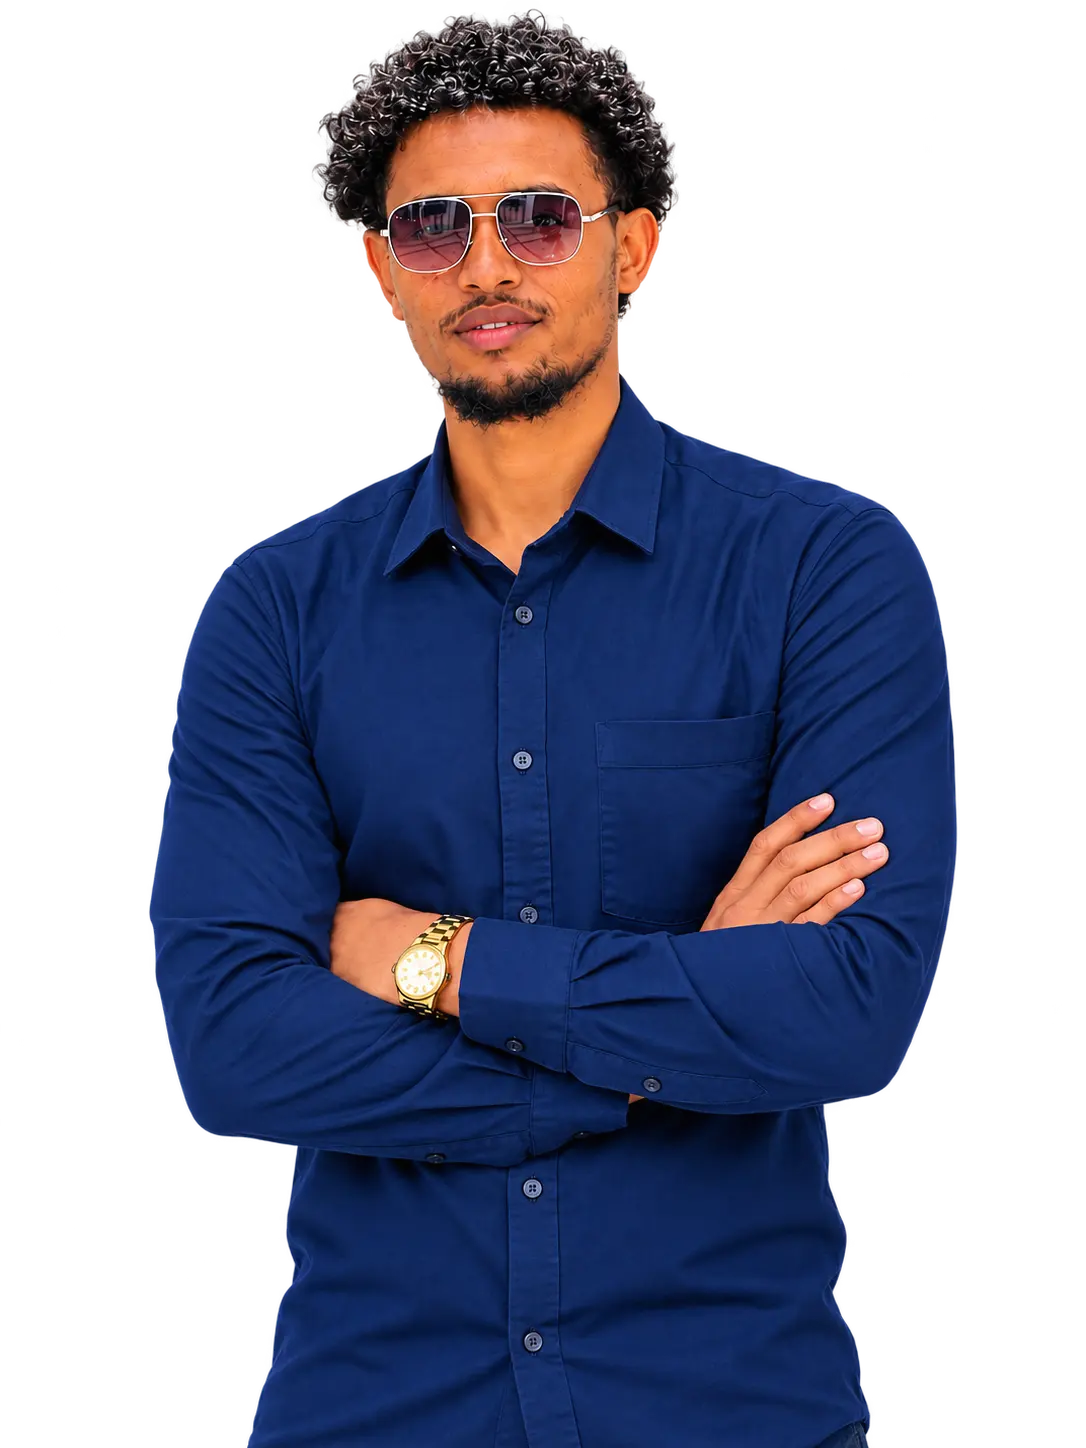
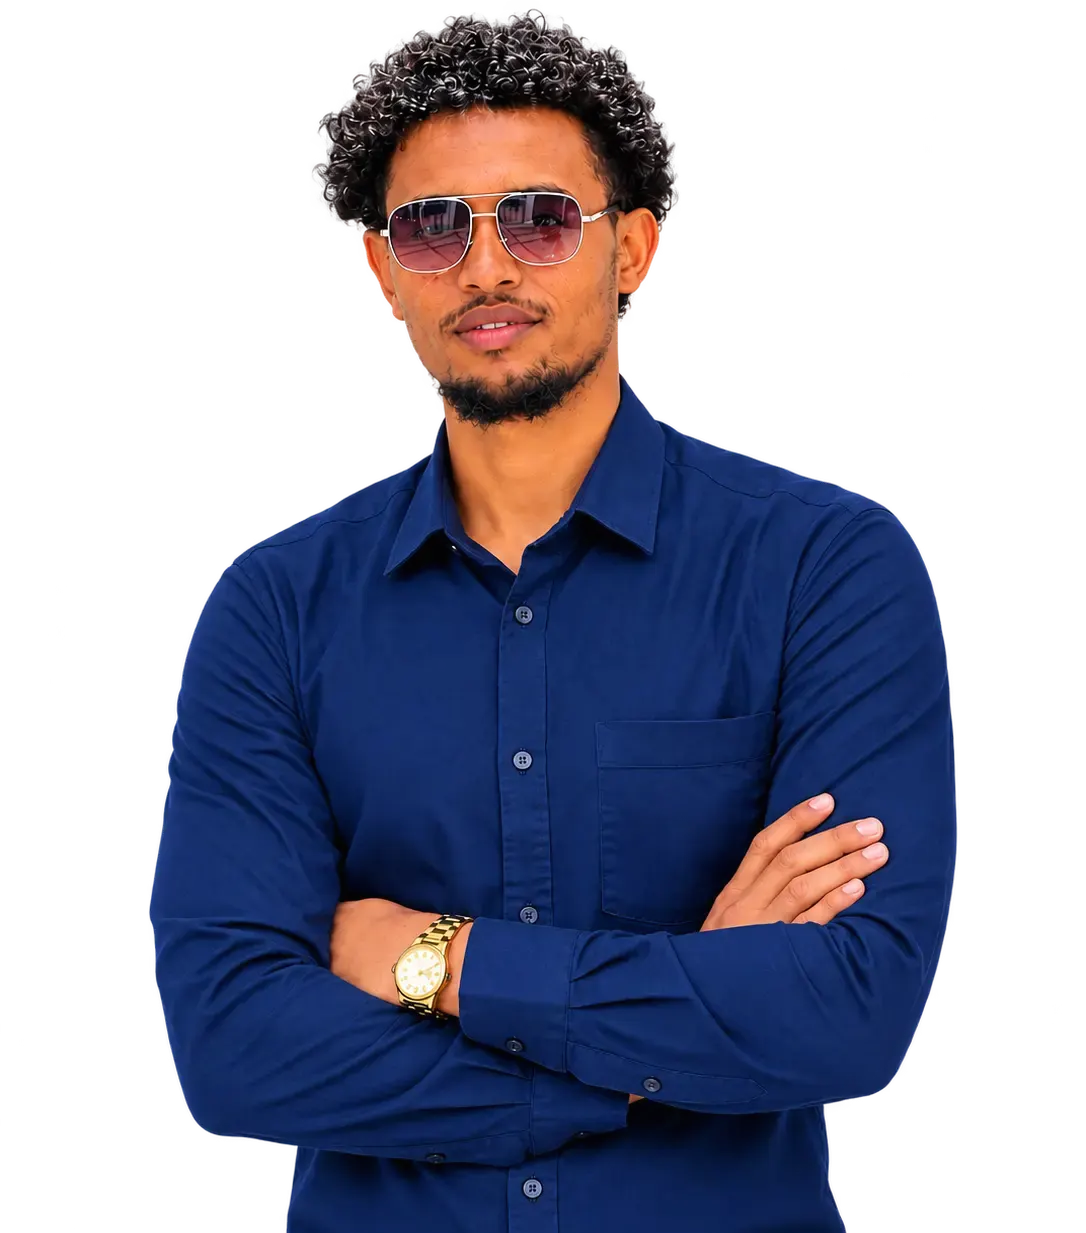
update

Changed region(s): [[0.1215, 0.0, 0.8812, 1.0], [0.6381, 0.4006, 0.6685, 0.4315]]

diff --git a/src/routes/index.tsx b/src/routes/index.tsx
@@ -223,8 +223,8 @@ function Index() {
           <div className="grid-dots absolute inset-0 opacity-60" />
           <Squiggle className="right-[8%] top-24 hidden text-primary-foreground/70 md:block" />
           <Squiggle className="left-[42%] top-40 hidden text-primary-foreground/50 md:block" />
-          <div className="relative mx-auto grid max-w-6xl items-end gap-10 px-5 pt-28 sm:px-6 sm:pt-32 md:grid-cols-2 md:pt-36">
-            <div className="animate-rise pb-16 md:pb-28">
+          <div className="relative mx-auto grid max-w-6xl items-end gap-10 px-5 pt-28 sm:px-6 sm:pt-32 md:grid-cols-2 md:pt-28">
+            <div className="animate-rise pb-16 md:translate-y-4 md:pb-28">
               <p className="inline-flex items-center gap-2 rounded-full bg-primary-foreground/15 px-4 py-1.5 text-sm font-medium">
                 <span className="relative flex h-2.5 w-2.5">
                   <span className="absolute inline-flex h-full w-full animate-ping rounded-full bg-accent opacity-75 motion-reduce:animate-none" />
@@ -232,8 +232,8 @@ function Index() {
                 </span>{" "}
                 Available for new opportunities
               </p>
-              <h1 className="mt-6 text-[2.15rem] font-extrabold leading-tight sm:text-5xl md:text-[2.75rem] lg:text-6xl">
-                Hello, I'm <span className="text-accent">Mohammed</span>,{" "}
+              <h1 className="mt-6 text-[2.15rem] font-extrabold leading-tight sm:text-5xl md:text-[2.75rem] lg:text-5xl">
+                Hello, I'm <span className="text-accent">Mohammed Hasen</span>{" "}
                 <span className="whitespace-nowrap">Full-Stack</span> Developer
               </h1>
               <p className="mt-6 max-w-lg text-base text-primary-foreground/80 sm:text-lg">
@@ -269,7 +269,7 @@ function Index() {
                 height={800}
                 fetchPriority="high"
                 decoding="async"
-                className="animate-rise-in relative w-[85%] max-w-md [animation-delay:150ms]"
+                className="animate-rise-in relative w-[85%]  [animation-delay:150ms]"
               />
               <div className="glass animate-float absolute right-0 top-10 sm:right-2 sm:top-16 rounded-2xl px-4 py-3 text-foreground shadow-soft md:right-0">
                 <p className="font-display text-2xl font-bold text-primary">4+</p>

diff --git a/src/components/site/SiteHeader.tsx b/src/components/site/SiteHeader.tsx
@@ -190,16 +190,14 @@ export function SiteHeader() {
           </ul>
 
           <div className="mt-2 border-t border-border/60 pt-3">
-            <Link
-              to="/"
-              hash="contact"
-              tabIndex={open ? 0 : -1}
-              onClick={() => setOpen(false)}
+            <a
+              href="/mohammed-resume.pdf"
+              download="mohammed-resume.pdf"
               className="flex items-center justify-center gap-1.5 rounded-2xl bg-gradient-to-r from-accent to-primary-glow px-4 py-3 font-semibold text-accent-foreground"
             >
-              Let's talk
+              Download Resume
               <ArrowUpRight className="size-4" />
-            </Link>
+            </a>
           </div>
         </div>
       </div>
